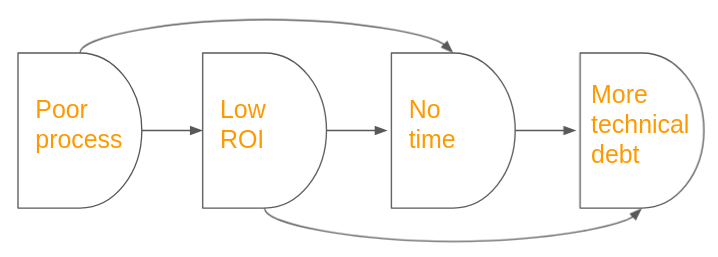
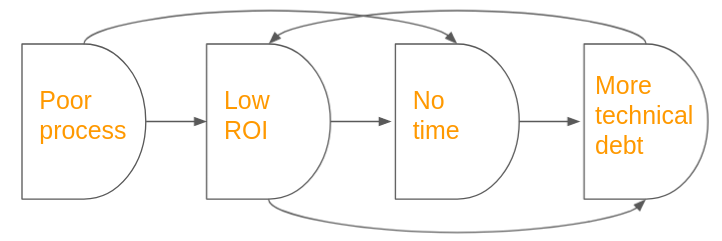
feat: viral after latest feedback

diff --git a/_posts/2021-08-16-code-factory.md b/_posts/2021-08-16-code-factory.md
@@ -1,6 +1,6 @@
 ---
 layout: post
-title:  "What to do if you work in a Code Factory"
+title:  "Escaping a Code Factory"
 author: david
 image: assets/images/code-factory.jpg
 categories: [ agile ]
@@ -8,9 +8,9 @@ featured: true
 ---
 Code factories grow from a belief that developers perform better when directed as much as possible.
 
-They might not be sweatshops but the spoon-feeding severely limits career growth and future prospects. First, code 
-factories tend to be on older technology since developers are not trusted enough to change architecture or re-write. So 
-long term if you want to remain employable as a software developer and stay at a code factory, you will need a side gig. 
+They might not be sweatshops but the spoon-feeding severely limits your prospects. First, code factories tend to be on 
+older technology since developers are not trusted enough to change architecture or re-write. So long term if you want 
+to remain employable as a software developer, you will need a side gig. 
 
 Second, code factories limit collaboration and leadership skills. That makes achieving any position of _real_ 
 responsibility much harder. (You can become management within the code factory but that's just baby-sitting.)
@@ -27,8 +27,8 @@ type="warning" %}
 
 If you see any of 1 through 4 where you work then read on.
 
-## How to find a job that's not a code factory
-Top-down is not the only way corporate software development works so greener pastures are possible. For example:
+## How to find a job outside a code factory
+Code factories are very inefficient so plenty of successful companies have teams doing better. For example:
 
 | Company     |  &nbsp; &nbsp; &nbsp; &nbsp; Bottom up example |
 | --- | --- |
@@ -43,8 +43,8 @@ Top-down is not the only way corporate software development works so greener pas
 
 <br />
 However, if you decide to leave, identifying the level of code factory of a team during the interview process 
-is tricky. A company having an "agile process", remote work or managers that code doesn't say anything about code 
-factory. Here are some questions you can ask:
+is tricky. "Agile process", remote work or managers that code doesn't say anything about code factory. Here are some 
+questions to investigate:
 * Who chooses the software development process? Similarly are teams allowed detours from the "paved road" 
 architecture or is infrastructure centralized?
 * How much power do PMs have? Engineering effectively reporting to a small group responsible for all idea generation 
@@ -58,16 +58,13 @@ influences the level of autonomy they encourage.
 Even if you are job seeking, its best if finding a new position is not your only angle on escaping code factory.
 
 ## How to make your current position tenable
-Assuming you don't want leaving to be your only option, then you're going to need a team that is capable of executing 
-quickly and efficiently by itself. To accomplish that without working yourself to death, you and your team will have to 
-make full use of the time available to you.
-
-Many code factory teams have the skills to succeed but are wasting time pushing rocks up a hill. These rocks tend to 
-come in three categories: bloated and ineffective process, poor prioritization, and technical debt. 
+Many teams have the technical skills to succeed but are wasting time pushing rocks up a hill. Assuming you 
+don't want to work yourself to death, your team must drop some rocks: bloated and ineffective process, poor 
+prioritization, and technical debt. 
 
 **By far the most impact can be had by fixing process**, because bad process _causes_ developers to spend time on 
-things with low return. That in turn makes old technical debt remain, and eats up available time which forces even more 
-shortcuts.
+things with low return. That in turn makes old technical debt remain, which eats up available time, which forces even 
+more shortcuts.
 
 <img src="{{ site.baseurl }}/assets/images/autonomy-diagram.png" alt="Autonomy" style="width: 90%;" />
 
